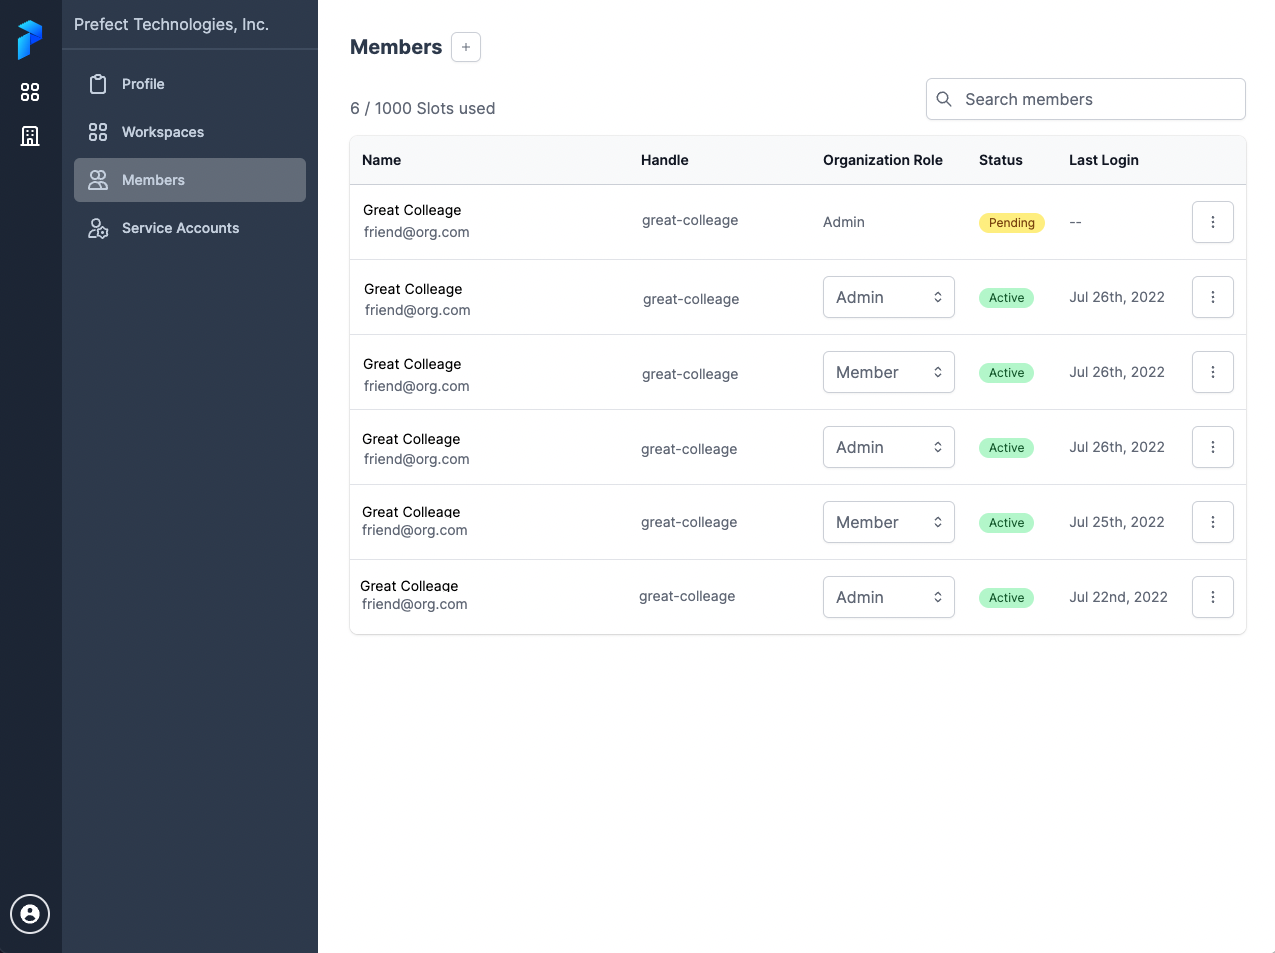
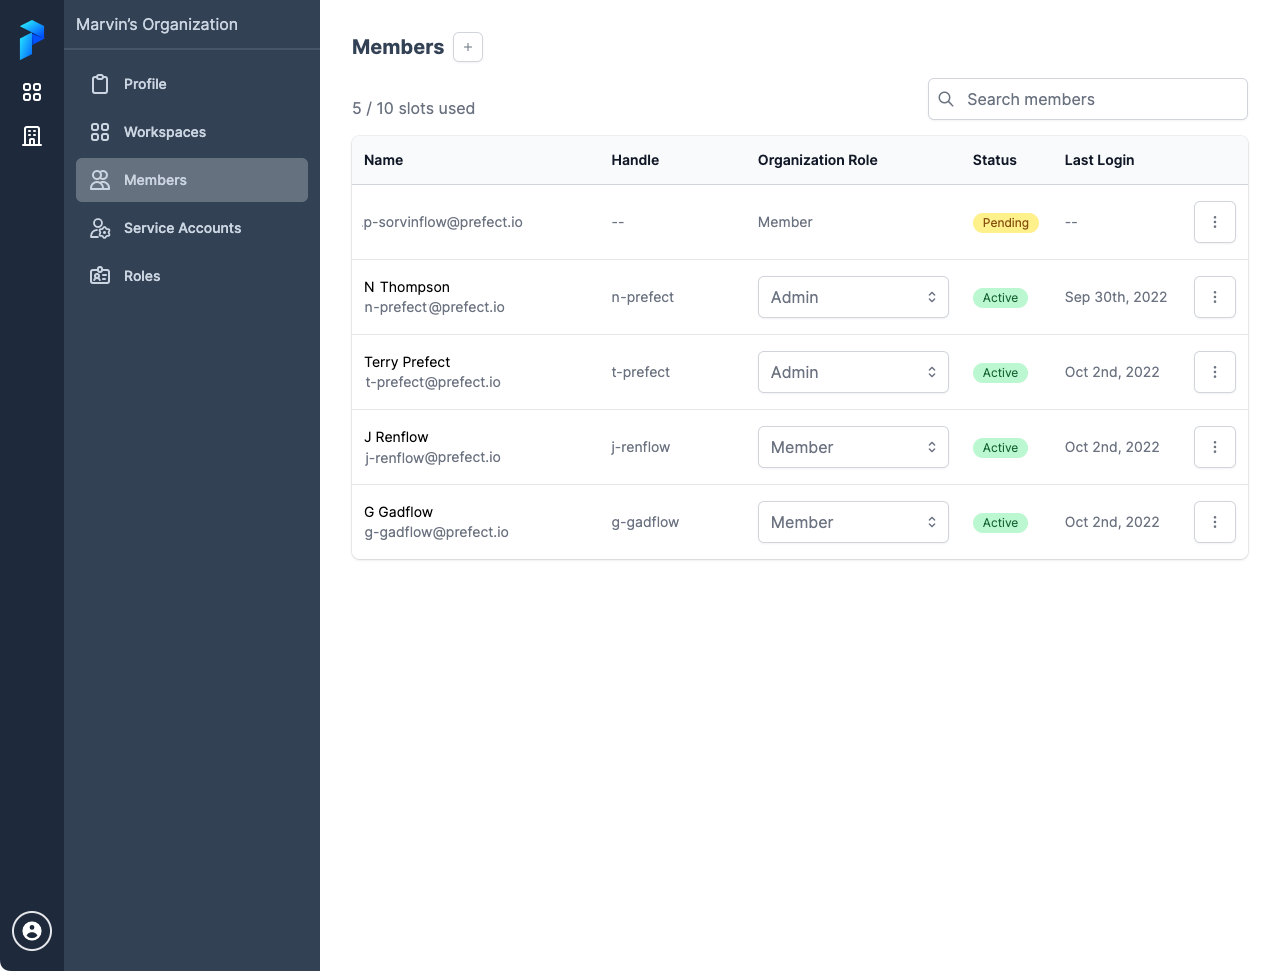
Update organization and roles docs

diff --git a/docs/ui/organizations.md b/docs/ui/organizations.md
@@ -12,17 +12,86 @@ tags:
 
 # Organizations in Prefect Cloud
 
-For larger teams, and companies with more complex needs around user and access management, [annual plans](https://www.prefect.io/pricing) include _organizations_ in Prefect Cloud 2. Organizations provide a host of ways to collaborate securely at scale, including:
+For larger teams, and companies with more complex needs around user and access management, [annual plans](https://www.prefect.io/pricing) include _organizations_ in Prefect Cloud 2. Organizations provide several features that enable you to collaborate securely at scale, including:
 
-- Organizational accounts and membership management
-- [Role Based Access Controls (RBAC)](/ui/roles/) to set user permissions at organization and workspace levels
-- Service accounts to generate credentials for specific workloads
-- Expanded and customizable [Flow Run Retention Policy](/ui/flow-runs/#flow-run-retention-policy)
+- Organizational accounts and membership management.
+- [Role Based Access Controls (RBAC)](/ui/roles/) to configure user permissions at organization and workspace levels.
+- Service accounts to generate credentials for specific workloads.
+- Expanded and customizable [Flow Run Retention Policy](/ui/flow-runs/#flow-run-retention-policy).
 
-![Organization member page in Cloud 2.](/img/ui/org-members.png)
+[Contact sales](https://www.prefect.io/pricing) to learn more about annual plans giving you control over organizations and user roles.
+
+## Navigating organizations
+
+If you have access to organizations in Prefect Cloud, you can see the organizations you're a member of by selecting the **Organizations** icon in the left navigation bar.
+
+![Select the Organizations icon in Prefect Cloud.](/img/ui/organizations.png)
+
+When you select an organization, you'll see an overview of the organization.
+
+**Workspaces** shows you a list of workspaces within the organziation to which you have access.
+
+## Organization members
+
+**Members** shows you a list of users who are members of the organization. If you have been given the organization Admin role, you can invite new members and set organization roles for users here.
+
+![Viewing the Organization member page in Prefect Cloud.](/img/ui/org-members.png)
 
 Control granular access to workspaces by setting default access for all organization members, inviting specific members to collaborate in an organization workspace, or adding service account permissions.
 
-![Organization workspace sharing in Cloud 2.](/img/ui/org-workspace-sharing.png)
+### Inviting organization members
 
-[Contact sales](https://www.prefect.io/pricing) to learn more about annual plans giving you control over organizations and user roles.
+To invite new members to an organization in Prefect Cloud, select the **+** icon. Provide an email address and a default organization role. You may add multiple email addresses.
+
+![Invite new members to an organization in Prefect Cloud.](/img/ui/org-invite-members.png)
+
+The user will receive an invite email with a confirmation link at the address provided. If the user does not already have a Prefect Cloud account, they must create an account before accessing the organization.
+
+The organization role set for the invite is only a default for the new member. An Admin may configure a different role for the user as needed.
+
+The maximum number of organization members varies. [Contact sales](https://www.prefect.io/pricing) to learn more about annual plans giving you control over organizations and user roles.
+
+## Service accounts
+
+Service accounts enable you to create a Prefect Cloud API key that is not associated with a user account. Service accounts are typically used to configure API access for running agents or executing flow runs on remote infrastructure.
+
+Select **Service Accounts** to view, create, or edit service accounts for your organization.
+
+![Viewing service accoutns for an organization in Prefect Cloud.](/img/ui/service-accounts.png)
+
+Service accounts are created at the organization level, but may be shared to individual workspaces within the organization. See [workspace sharing](#workspace-sharing) for more information.
+
+!!! tip "Service account credentials"
+    When you create a service account, Prefect Cloud creates a new API key for the account and provides the API configuration command for the execution environment. Save these to a safe location for future use. If the access credentials are lost or compromised, you should delete the service account and create a new service account with new credentials.
+
+## Workspace sharing
+
+You may give organization members and service accounts access to workspaces within an organization. Each workspace within an organization may have its own members and service accounts with roles and permissions specific to that workspace. Organization Admins have full access to all workspaces in an organization.
+
+Within a workspace, select **Workspace Sharing**, then select the **+** icon to add new members or service accounts to the workspace. Only organization Admins and workspace Owners may add members or service accounts to a workspace.
+
+![Organization workspace sharing in Prefect Cloud.](/img/ui/org-workspace-sharing.png)
+
+Members and service accounts must already be configured for the organization. An Admin or Owner may configure a different role for the user or service account as needed.
+
+!!! note "Default workspace role"
+    You may make a workspace available to anyone in an organization by settings a default role for "Anyone at...". Anyone in the organization may access the workspace with the specified default role permissions.
+
+    The role given to users specifically added to the workspace overrides this setting.
+    
+    You may set this to No Access if you do not want organization members not specifically added to the workspace to access it (organization Admins excepted). 
+
+## Organization and workspace roles
+
+Prefect Cloud enables configuring both organization and workspace roles for users.
+
+- Organization roles apply to users across an organization.
+- Workspace roles apply to users within a specific workspace.
+
+Select **Roles** within an organziation to see the configured roles for your organization. 
+
+![Organization roles in Prefect Cloud.](/img/ui/org-roles.png)
+
+Prefect Cloud provides default roles that cover most use cases. You may also create custom roles to suit your specific organization needs.
+
+See [Roles (RBAC)](/ui/roles/) for details on default and custom role permissions.

diff --git a/docs/ui/roles.md b/docs/ui/roles.md
@@ -59,6 +59,8 @@ Custom workspace roles can also be created independent of Prefect’s built-in r
 
 See [Role permissions](#role-permissions) for details of permissions you may set for custom roles.
 
+After you create a new role, it become available in the organization **Members** page and the **Workspace Sharing** page for you to apply to users.
+
 ### Inherited roles
 
 A custom role may be configured as an **Inherited Role**. Using an inherited role allows you to create a custom role using a set of initial permissions associated with a built-in Prefect role. Additional permissions can be added to the custom role. Permissions included in the inherited role cannot be removed.
@@ -71,7 +73,7 @@ To configure an inherited role when configuring a custom role, select the **Inhe
 
 ## Role permissions
 
-The following permissions are available for custom roles
+The following permissions are available for custom roles.
 
 ### Blocks
 
